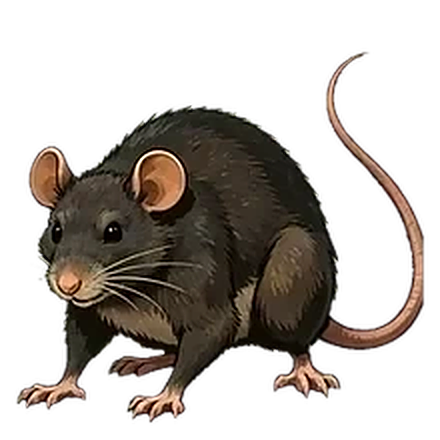
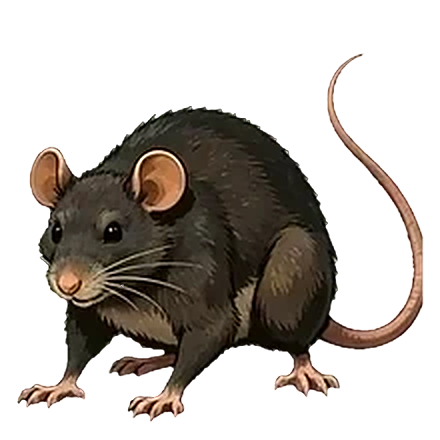
Rat géant : détourage refait des trois poses (plus de blanc ni de frange autour)

diff --git a/docs/TECHNIQUE.md b/docs/TECHNIQUE.md
@@ -159,7 +159,7 @@ Lentille de distorsion des sorts (`SpellFxKit._lens`, palier 3) : désactivée h
 
 Couche d'effets des cartes et des sorts (`CardFxOverlay`) : sous-fenêtre à fond transparent, composée par un shader `blend_add` sur son `SubViewportContainer`. Cause réelle du disque noir à l'impact : les sprites additifs cumulent de l'alpha dans une sous-fenêtre transparente, et la composition alpha normale assombrissait alors la scène derrière (halo sombre autour des étincelles, ondes de choc, etc.). En additif, seule la lumière des effets s'ajoute ; les effets volontairement sombres (fumée, ombre) sont donc moins noirs qu'avant.
 
-Poses des monstres : `EntityLayer._start_react` (utilisée par `play` en exploration et `play_node` en salle de combat) échange, le temps de la réaction (`attack` 0,6 s, `hit` 0,55 s au minimum), le matériau du sprite contre celui de `assets/monsters/mNN_attack.webp` / `mNN_hit.webp` s'il existe (`_pose_material`, mis en cache dans `_mats`, clé `P|index|pose` ; `NN` = index de la planche, comme `NEW_MONSTER_IDS` / `REMAKE_MAP`) ; sans fichier de pose, seule la déformation existante joue. Le coup reçu teinte en plus le matériau de pose en rouge. Les boss n'ont pas de poses. Équipés : le gobelin (`m06*`) et le rat géant (`m07_attack`, `m07_hit` ; la pose normale reste `m07.webp`, l'index 7 de `REMAKE_MAP`). Les images du rat viennent d'une planche à fond vert détourée par matte de couleur (alpha continu, moustaches conservées, couleurs de bord décontaminées, composante filigrane écartée) puis rééchantillonnées en alpha prémultiplié, cadrées sur la largeur de la pose normale. Les trois images du gobelin viennent d'une planche à fond vert détourée (remplissage depuis les bords ; alpha anticrénelé par flou du masque, couleurs des bords recopiées de l'intérieur pour supprimer la frange verte, dé-teinte du vert résiduel), remises à la même échelle et au même pied sur un canevas de 1024 px (WebP sans perte, rééchantillonnage Lanczos en alpha prémultiplié) ; mipmaps activés à l'import (`mipmaps/generate=true`) pour un affichage net à distance.
+Poses des monstres : `EntityLayer._start_react` (utilisée par `play` en exploration et `play_node` en salle de combat) échange, le temps de la réaction (`attack` 0,6 s, `hit` 0,55 s au minimum), le matériau du sprite contre celui de `assets/monsters/mNN_attack.webp` / `mNN_hit.webp` s'il existe (`_pose_material`, mis en cache dans `_mats`, clé `P|index|pose` ; `NN` = index de la planche, comme `NEW_MONSTER_IDS` / `REMAKE_MAP`) ; sans fichier de pose, seule la déformation existante joue. Le coup reçu teinte en plus le matériau de pose en rouge. Les boss n'ont pas de poses. Équipés : le gobelin (`m06*`) et le rat géant (`m07_attack`, `m07_hit` ; la pose normale reste `m07.webp`, l'index 7 de `REMAKE_MAP`). Les images d'attaque et de coup reçu du rat viennent des planches 2048 px à fond vert (détourage refait : fond local estimé par convolution normalisée, alpha calculé par projection sur l'axe fond → couleur franche voisine dans une bande de 7 px autour du fond seulement, jamais à l'intérieur de la silhouette ; couleurs de bord décontaminées, donc plus de frange verte ni de liseré clair ; filigrane et petits fragments écartés), réduites en alpha prémultiplié (INTER_AREA) dans la même boîte que les anciennes images (placement inchangé en jeu) ; les pixels transparents gardent la couleur du bord franc le plus proche pour éviter toute frange au filtrage et aux mipmaps. La pose normale (`m07.webp`, sans source conservée) a été nettoyée sur place : alpha resserré et couleurs du liseré remplacées par celles de l'intérieur. Les trois images du gobelin viennent d'une planche à fond vert détourée (remplissage depuis les bords ; alpha anticrénelé par flou du masque, couleurs des bords recopiées de l'intérieur pour supprimer la frange verte, dé-teinte du vert résiduel), remises à la même échelle et au même pied sur un canevas de 1024 px (WebP sans perte, rééchantillonnage Lanczos en alpha prémultiplié) ; mipmaps activés à l'import (`mipmaps/generate=true`) pour un affichage net à distance.
 
 Micro-saccade à l'entrée en rage : deux causes corrigées. (1) `CombatStage._make_rage_aura` créait un `Shader.new()` par monstre : le shader chauffé au chargement n'était donc pas celui du combat, et le moteur recompilait à chaque première rage ; le shader est maintenant unique (`CombatStage._rage_shader()`, comme `StatusAura._fire_shader` et `SpellFxKit._shader`). Règle : tout shader utilisé par un effet de jeu est créé une seule fois (variable statique), jamais à l'apparition de l'effet. (2) Le préchauffage (`WarmUp.run`) tournait en MSAA désactivé et sans les effets d'environnement (occlusion ambiante, halo, étalonnage) alors que la vue de jeu les utilise : le moteur compile un pipeline par format d'image, donc le premier affichage de chaque effet recompilait en plein jeu. Le préchauffage reprend maintenant `Settings.msaa_mode()` et `VisualFx.apply_environment`. Les saccades de compilation ne se mesurent pas sans carte graphique (le rendu logiciel de `xvfb` est trop lent), `tools/check_rage_hitch.tscn` sert à les mesurer sur une vraie machine (`WARM=1` pour comparer avec le préchauffage).
 
